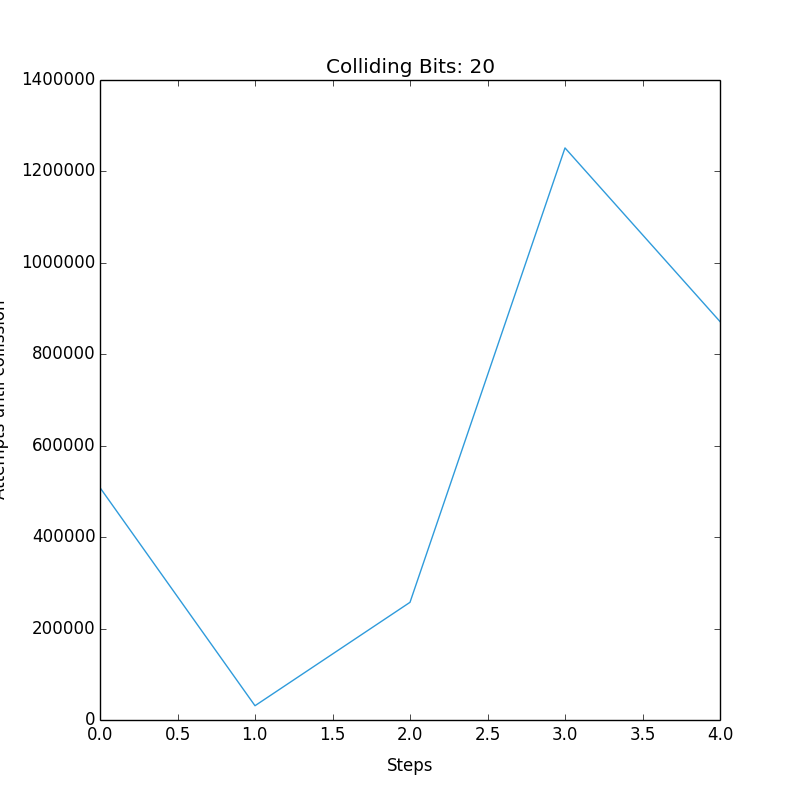
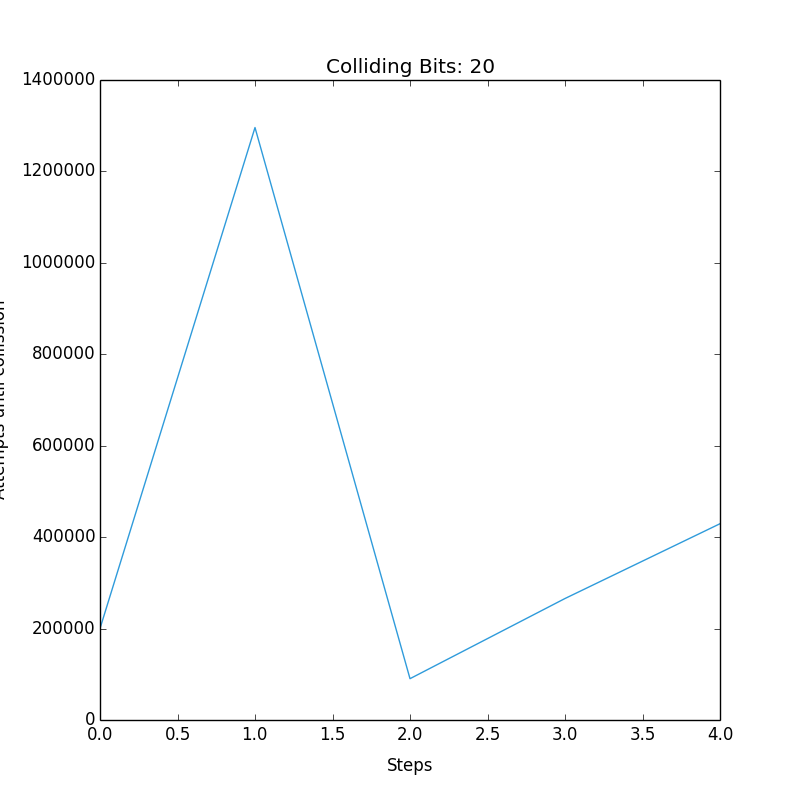
Changed plot of average time and tries to dots with connecting line

diff --git a/practical/collider.py b/practical/collider.py
@@ -41,8 +41,8 @@ def plot_average_graph(average_tries, average_time):
   width = 0.35
   tries = [average_tries[x] for x in sorted(average_tries)]
   ind = np.arange(N)
-  plt.bar(ind,tries, width)
-  plt.xticks(ind+width/2, sorted(average_tries.keys()))
+  plt.plot(ind,tries, 'bo--')
+  plt.xticks(ind, sorted(average_tries.keys()))
   plt.xlim(-1,len(average_tries.keys())+1)
   plt.xlabel("Length of bit prefix")
   plt.ylabel("number of tries")
@@ -50,8 +50,8 @@ def plot_average_graph(average_tries, average_time):
   plt.close()
 
   times = [average_time[x] for x in sorted(average_time)]
-  plt.bar(ind, times, width)
-  plt.xticks(ind+width/2, sorted(average_time.keys()))
+  plt.plot(ind, times, 'bo--')
+  plt.xticks(ind, sorted(average_time.keys()))
   plt.xlim(-1, len(average_time.keys())+1)
   plt.xlabel("Length of bit prefix")
   plt.ylabel("time [s]")
